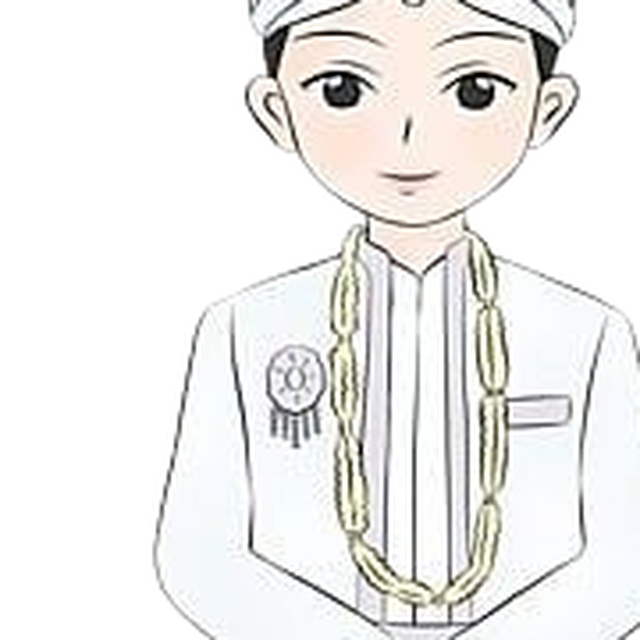
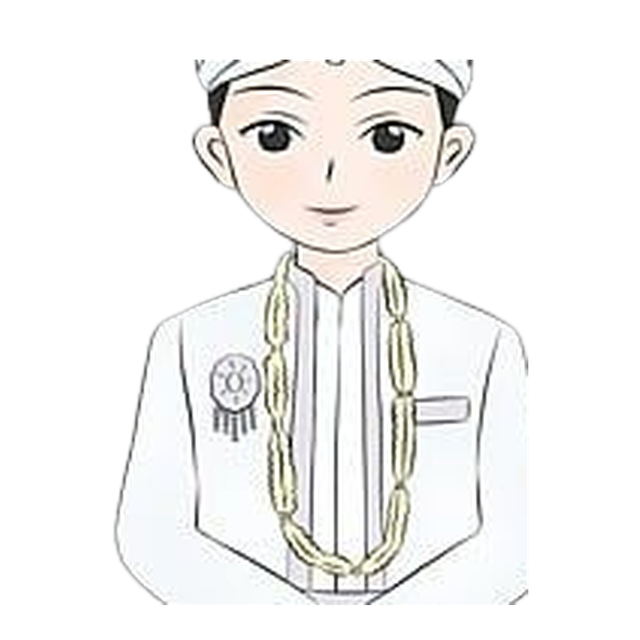
fix: rebalance portrait assets and center circle layout

diff --git a/src/components/invitation/sections/CoupleSection.tsx b/src/components/invitation/sections/CoupleSection.tsx
@@ -141,7 +141,7 @@ export function CoupleSection({ tenant, themeConfig }: Props) {
                     alt="Ilustrasi mempelai pria Minang"
                     fill
                     sizes={COUPLE_PORTRAIT_SIZES}
-                    className="object-contain object-[53%_48%]"
+                    className="object-contain object-center"
                   />
                 ) : isIslam ? (
                   <Image
@@ -149,7 +149,7 @@ export function CoupleSection({ tenant, themeConfig }: Props) {
                     alt="Ilustrasi mempelai pria"
                     fill
                     sizes={COUPLE_PORTRAIT_SIZES}
-                    className="object-contain object-[53%_48%]"
+                    className="object-contain object-center"
                   />
                 ) : (
                   <CouplePhotoPlaceholder
@@ -215,7 +215,7 @@ export function CoupleSection({ tenant, themeConfig }: Props) {
                     alt="Ilustrasi mempelai wanita Minang"
                     fill
                     sizes={COUPLE_PORTRAIT_SIZES}
-                    className="object-contain object-[47%_48%]"
+                    className="object-contain object-center"
                   />
                 ) : isIslam ? (
                   <Image
@@ -223,7 +223,7 @@ export function CoupleSection({ tenant, themeConfig }: Props) {
                     alt="Ilustrasi mempelai wanita"
                     fill
                     sizes={COUPLE_PORTRAIT_SIZES}
-                    className="object-contain object-[47%_48%]"
+                    className="object-contain object-center"
                   />
                 ) : (
                   <CouplePhotoPlaceholder
